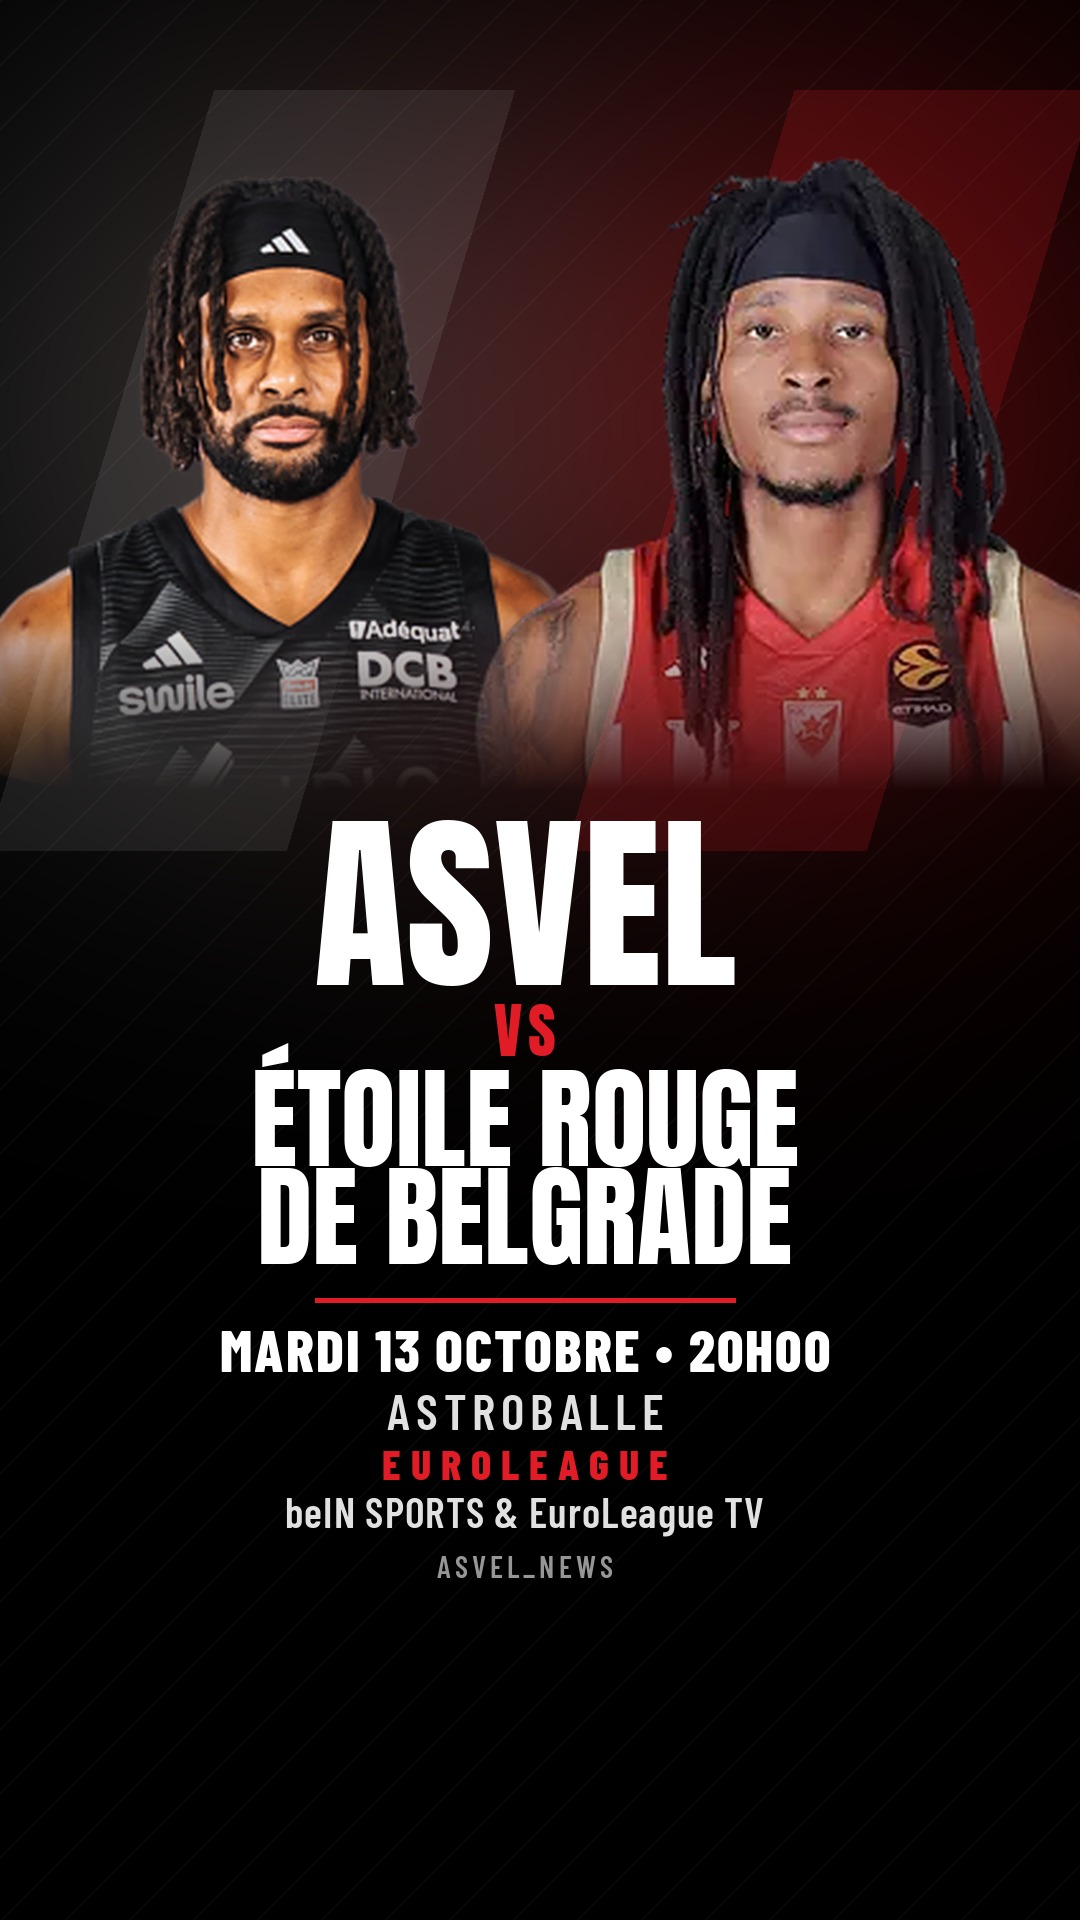
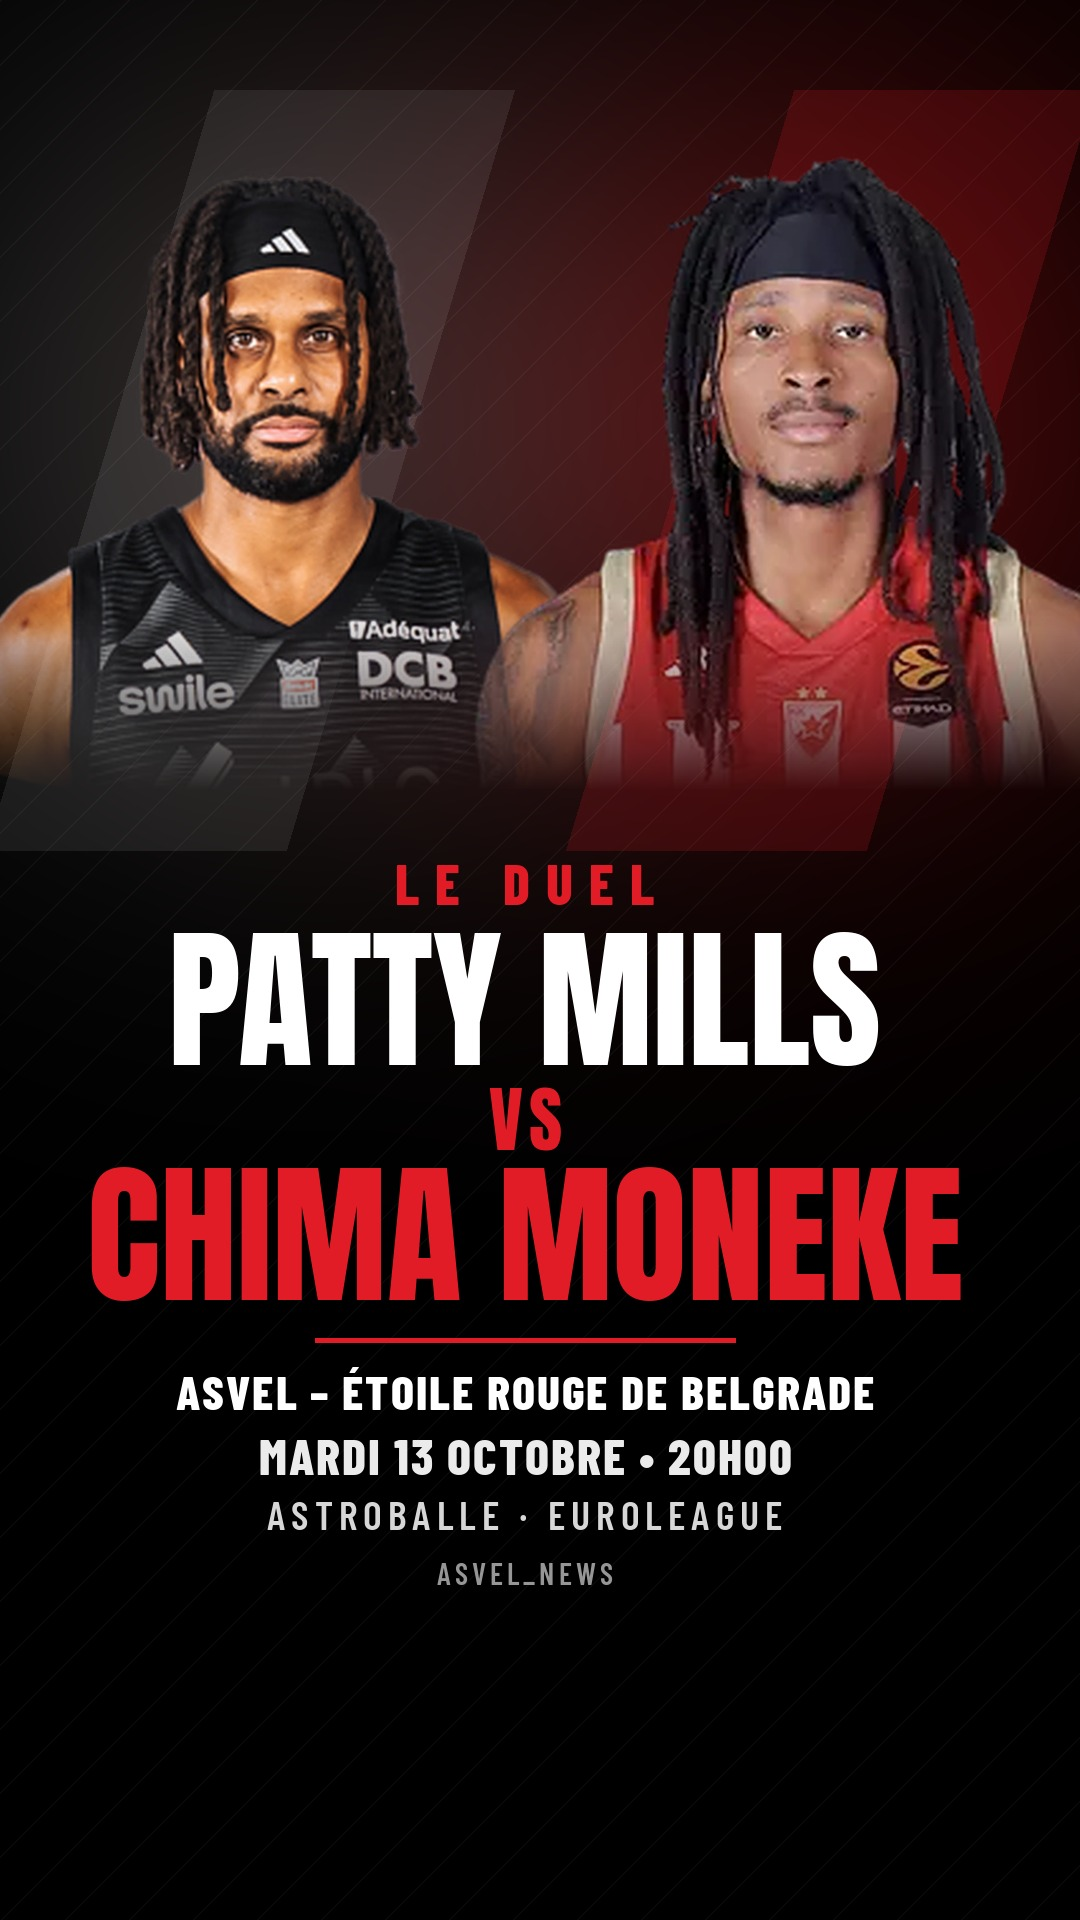
Illustrations : LE DUEL, Patty Mills vs Chima Moneke
Claude-Session: https://claude.ai/code/session_01Lih1Mh2bLyJNsnEZTKm6eF

Changed region(s): [[0.0611, 0.4062, 0.8861, 0.8438]]

diff --git a/bande-annonce/asvel-etoile-rouge/montage/illustration.py b/bande-annonce/asvel-etoile-rouge/montage/illustration.py
@@ -47,21 +47,40 @@ v = np.zeros((H, W, 4), np.uint8)
 v[..., 3] = (np.clip(1 - np.abs(xs - 800) / 330, 0, 1) ** 1.5 * 170).astype(np.uint8)
 can.alpha_composite(Image.fromarray(v, 'RGBA'))
 CX = 800
-put(can, text('BANDE-ANNONCE', B8, 34, RED + (255,), track=10), CX, 150)
-put(can, text('ASVEL', ANTON, 170, WHITE + (255,)), CX, 330)
-put(can, text('VS', ANTON, 56, RED + (255,), track=6), CX, 400)
-er = fit('ÉTOILE ROUGE', ANTON, 560, 104)
-put(can, text('ÉTOILE ROUGE', ANTON, er, WHITE + (255,)), CX, 505)
-put(can, text('DE BELGRADE', ANTON, er, WHITE + (255,)), CX, 600)
+put(can, text('LE DUEL', B8, 40, RED + (255,), track=14), CX, 140)
+ns = min(fit('PATTY MILLS', ANTON, 580, 130), fit('CHIMA MONEKE', ANTON, 580, 130))
+put(can, text('PATTY MILLS', ANTON, ns, WHITE + (255,)), CX, 290)
+put(can, text('VS', ANTON, 60, RED + (255,), track=6), CX, 370)
+put(can, text('CHIMA MONEKE', ANTON, ns, RED + (255,)), CX, 500)
 d = ImageDraw.Draw(can)
-d.rectangle([CX - 170, 632, CX + 170, 636], fill=RED)
-put(can, text('MARDI 13 OCTOBRE • 20H00', B8, 44, WHITE + (255,), track=2), CX, 700)
-put(can, text('ASTROBALLE', B6, 38, (225, 225, 225, 255), track=6), CX, 750)
-put(can, text('EUROLEAGUE', B8, 32, RED + (255,), track=10), CX, 795)
+d.rectangle([CX - 170, 540, CX + 170, 544], fill=RED)
+ms = fit('ASVEL – ÉTOILE ROUGE DE BELGRADE', B8, 560, 40, track=2)
+put(can, text('ASVEL – ÉTOILE ROUGE DE BELGRADE', B8, ms, WHITE + (255,), track=2), CX, 610)
+put(can, text('MARDI 13 OCTOBRE • 20H00', B8, 40, (235, 235, 235, 255), track=2), CX, 675)
+put(can, text('ASTROBALLE', B6, 36, (215, 215, 215, 255), track=6), CX, 728)
+put(can, text('EUROLEAGUE', B8, 32, RED + (255,), track=10), CX, 775)
 put(can, text('ASVEL_NEWS', B6, 24, (150, 150, 150, 255), track=4), CX, 860)
 os.makedirs(OUT, exist_ok=True)
 can.convert('RGB').save(os.path.join(OUT, 'illustration-asvel-etoile-rouge.jpg'), quality=92)
 
-# ---------------------------------------------------------------- couverture 1080 x 1920 (affiche finale)
-R.poster(R.T_END - 0.5, R.DATES['date']).save(os.path.join(OUT, 'couverture-asvel-etoile-rouge.jpg'), quality=92)
+# ---------------------------------------------------------------- couverture 1080 x 1920 (TikTok)
+c = R.bg(R.glow(285, 420, 520, (255, 255, 255), 0.15), R.glow(800, 420, 520, (255, 25, 30), 0.26))
+R.stripes(c, 0, 0, 9)
+R.shape(c, R.para(250, 470, 300, 760, 0.3), (255, 255, 255, 20))
+R.shape(c, R.para(830, 470, 300, 760, 0.3), (226, 28, 38, 45))
+c.alpha_composite(R.MILLS.layer(2.53, 285, 335, fade_bottom=(600, 790)))
+c.alpha_composite(R.MONEKE.layer(2.75, 805, 335, fade_bottom=(600, 790)))
+X = R.CX
+R.put(c, text('LE DUEL', B8, 56, RED + (255,), track=16), X, 905)
+ns = min(fit('PATTY MILLS', ANTON, 880, 190), fit('CHIMA MONEKE', ANTON, 880, 190))
+R.put(c, text('PATTY MILLS', ANTON, ns, WHITE + (255,)), X, 1065)
+R.put(c, text('VS', ANTON, 72, RED + (255,), track=6), X, 1150)
+R.put(c, text('CHIMA MONEKE', ANTON, ns, RED + (255,)), X, 1300)
+R.shape(c, [(X - 210, 1338), (X + 210, 1338), (X + 210, 1342), (X - 210, 1342)], RED + (255,))
+ms = fit('ASVEL – ÉTOILE ROUGE DE BELGRADE', B8, 860, 48, track=2)
+R.put(c, text('ASVEL – ÉTOILE ROUGE DE BELGRADE', B8, ms, WHITE + (255,), track=2), X, 1410)
+R.put(c, text('MARDI 13 OCTOBRE • 20H00', B8, 50, (235, 235, 235, 255), track=2), X, 1475)
+R.put(c, text('ASTROBALLE · EUROLEAGUE', B6, 40, (215, 215, 215, 255), track=6), X, 1530)
+R.put(c, text('ASVEL_NEWS', B6, 30, (150, 150, 150, 255), track=4), X, 1585)
+c.convert('RGB').save(os.path.join(OUT, 'couverture-asvel-etoile-rouge.jpg'), quality=92)
 print('ok')

diff --git a/bande-annonce/asvel-etoile-rouge/README.md b/bande-annonce/asvel-etoile-rouge/README.md
@@ -4,8 +4,8 @@
 |---|---|
 | `ASVEL_NEWS_ASVEL-EtoileRouge_13-octobre.mp4` | publication avant le jour du match (MARDI 13 OCTOBRE • 20H00) |
 | `ASVEL_NEWS_ASVEL-EtoileRouge_AUJOURDHUI.mp4` | publication le 13 octobre uniquement (AUJOURD’HUI • 20H00) |
-| `illustration-asvel-etoile-rouge.jpg` | image d’illustration 1600×900 (article, partage) (`montage/illustration.py`) |
-| `couverture-asvel-etoile-rouge.jpg` | couverture verticale 1080×1920 (TikTok) : affiche finale |
+| `illustration-asvel-etoile-rouge.jpg` | image d’illustration 1600×900 (article, partage) : LE DUEL, PATTY MILLS VS CHIMA MONEKE (`montage/illustration.py`) |
+| `couverture-asvel-etoile-rouge.jpg` | couverture verticale 1080×1920 (TikTok) : LE DUEL, PATTY MILLS VS CHIMA MONEKE |
 | `ASVEL_NEWS_Teaser_RDV-lundi-12-octobre.mp4` | teaser 18 s : BANDE-ANNONCE COMPLÈTE / RENDEZ-VOUS LUNDI 12 OCTOBRE (`montage/teaser.py`) |
 
 1080×1920, 30 i/s, 106,45 s, H.264 High + AAC 192 kb/s 48 kHz, ≈ 29,8 Mo, −14 LUFS, crête −1 dBFS.
